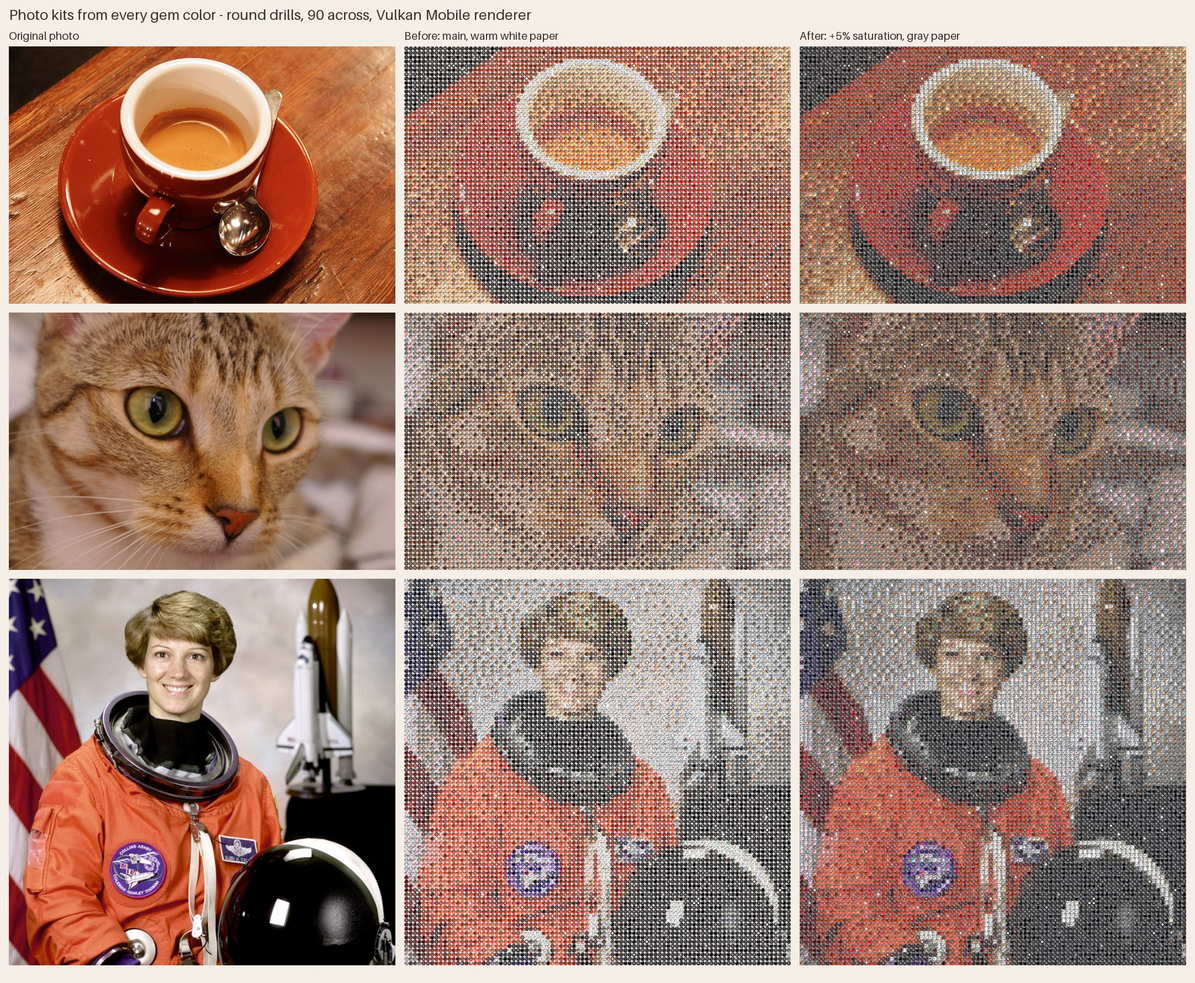
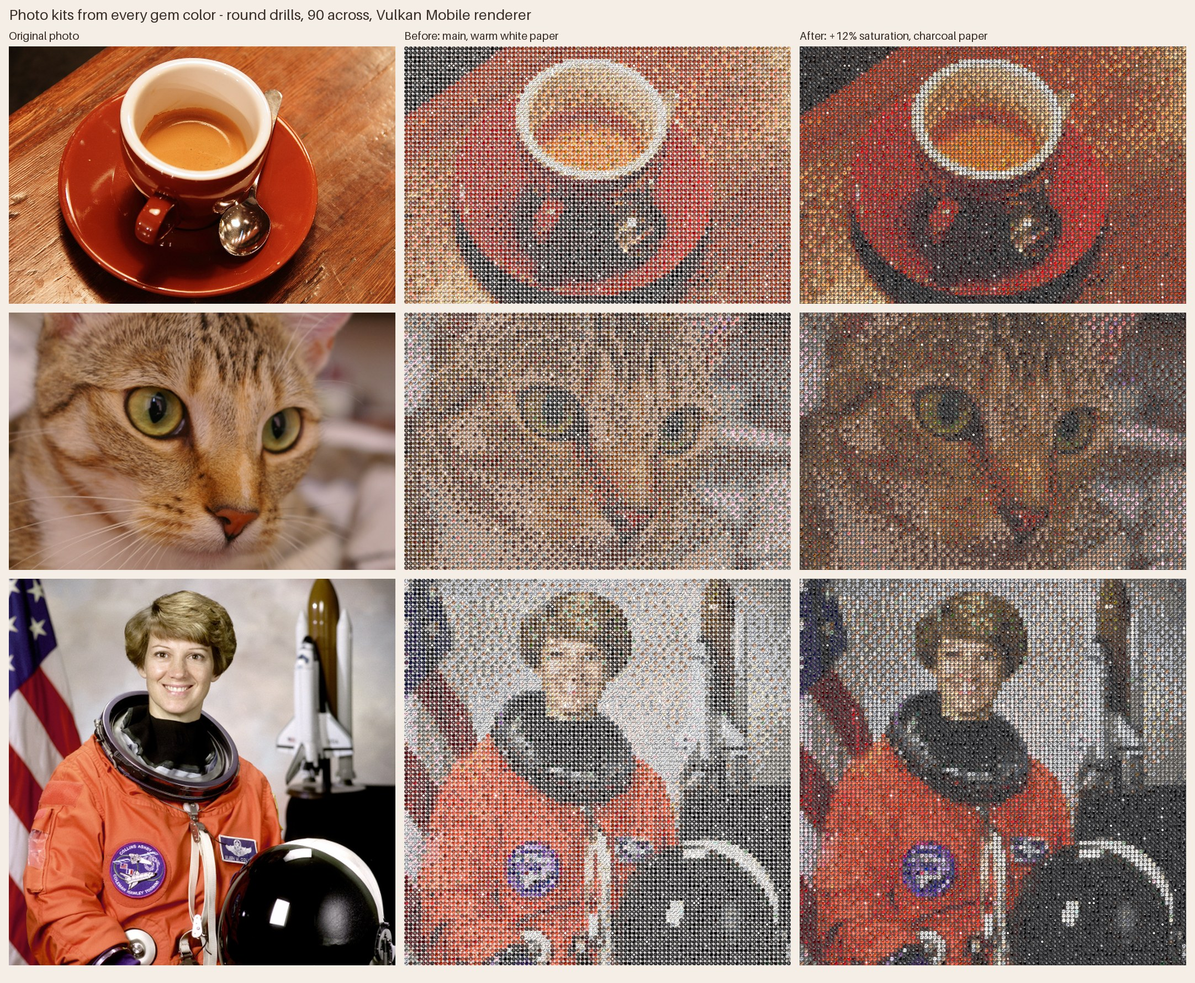
Kits: charcoal paper and 12% more saturation; light slot marks on it
Charcoal paper with a 12% saturation boost read best on the phone. The
play screen's empty-slot outlines and numbers were dark, made for white
paper, so on kits they're now light, and dark stones' selection tint is a
medium gray (as pale stones' is on white paper). The lab's Kit paper
picker leads with the game's charcoal and adds mid gray and black.

Claude-Session: https://claude.ai/code/session_012LQ98rgWdxVeG9fAF7mE8d

Changed region(s): [[0.6502, 0.0309, 1.0, 0.9888]]

diff --git a/README.md b/README.md
@@ -228,8 +228,8 @@ mode for trying out new pattern generation.
   Drills fill 98% of their cell, so neighbors almost touch, like a real kit
   (square drills' slots are sized by `GemShapes.drill_length`, since a square
   draws at 75% of its slot to fit round collage slots).
-  Kit pictures are made 5% more colorful before their colors are matched
-  (`KitGenerator.SATURATION`), and kits lie on neutral gray paper
+  Kit pictures are made 12% more colorful before their colors are matched
+  (`KitGenerator.SATURATION`), and kits lie on charcoal paper
   (`GemBoard3D.KIT_PAPER_COLOR`) rather than the collages' warm white, so
   the paper between round drills doesn't pale the picture.
   *Kit size* in the New puzzle panel (for photo kits too) sets the drills
